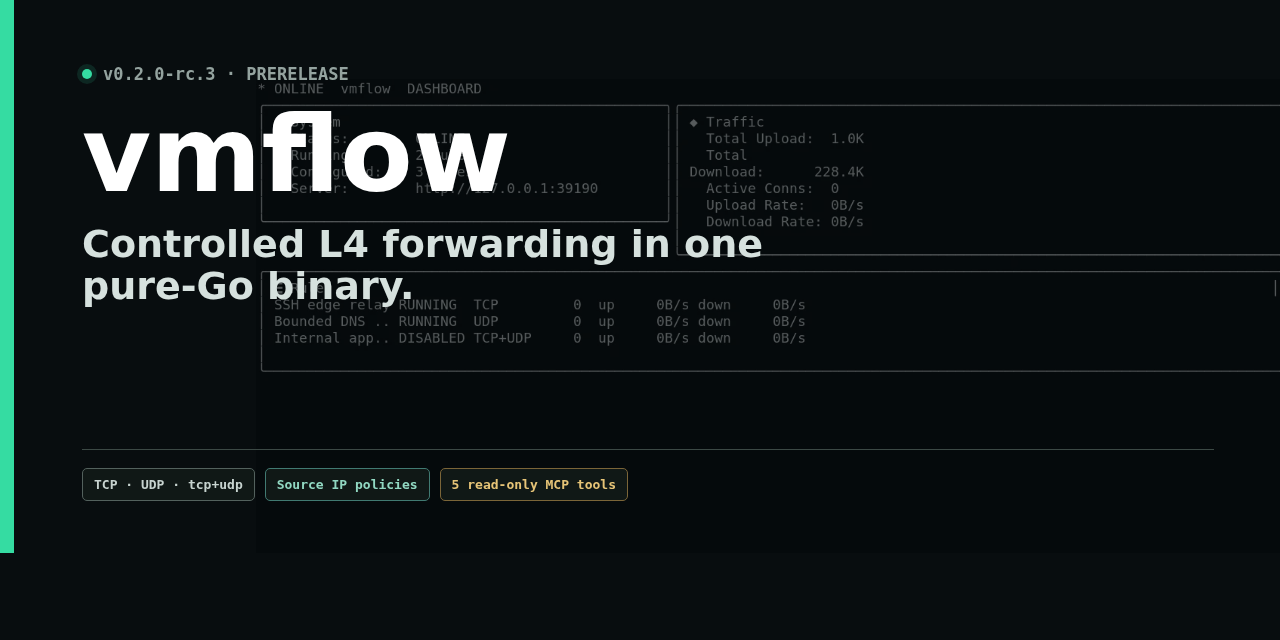
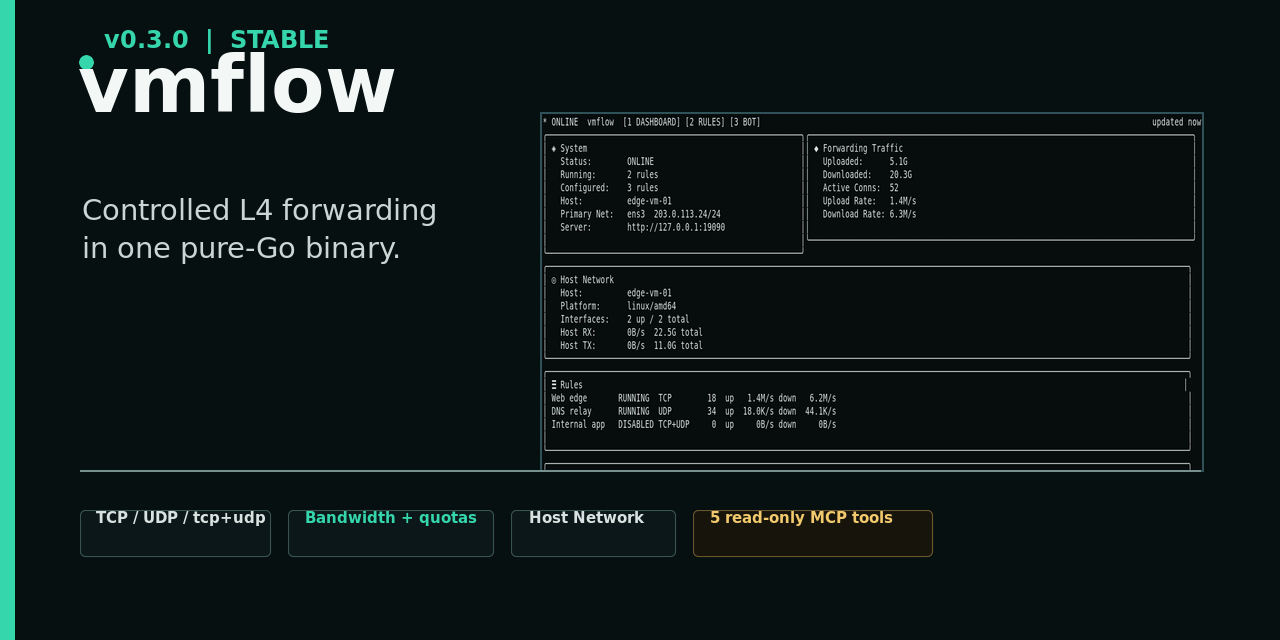
docs: refresh v0.3.0 guides and media

diff --git a/README.md b/README.md
@@ -7,20 +7,20 @@ pure Go. Run it as a single-binary network proxy or embed the forwarding runtime
 in your own Go control plane, with explicit resource limits, hot-reloadable
 rules, a terminal UI, and Prometheus metrics.
 
-[![Docs](https://img.shields.io/badge/docs-vmflow.bestcheapvps.org-14b8a6)](https://vmflow.bestcheapvps.org/)
+[![Docs source](https://img.shields.io/badge/docs-source-14b8a6)](https://github.com/cloudapp3/vmdocs/tree/main/sites/vmflow/docs)
 [![CI](https://github.com/cloudapp3/vmflow/actions/workflows/go.yml/badge.svg)](https://github.com/cloudapp3/vmflow/actions/workflows/go.yml)
 [![Go Reference](https://pkg.go.dev/badge/github.com/cloudapp3/vmflow.svg)](https://pkg.go.dev/github.com/cloudapp3/vmflow)
 [![License: MIT](https://img.shields.io/badge/license-MIT-blue.svg)](LICENSE)
 
-Documentation: [Website](https://vmflow.bestcheapvps.org/) · [中文](https://vmflow.bestcheapvps.org/zh/) · [Docs source](https://github.com/cloudapp3/vmdocs/tree/main/sites/vmflow/docs)
+Documentation: [English quick start](https://github.com/cloudapp3/vmdocs/blob/main/sites/vmflow/docs/guide/quick-start.md) · [中文快速开始](https://github.com/cloudapp3/vmdocs/blob/main/sites/vmflow/docs/zh/quick-start.md) · [All docs source](https://github.com/cloudapp3/vmdocs/tree/main/sites/vmflow/docs)
 
 > **完整使用指南:** [中文文档源码](https://github.com/cloudapp3/vmdocs/tree/main/sites/vmflow/docs/zh) —— 覆盖安装、配置、运维、安全加固与排错。English quick reference is below; the deep guide is in the [public docs source](https://github.com/cloudapp3/vmdocs/tree/main/sites/vmflow/docs).
 
 <p align="center">
-  <img src="assets/vmflow-demo.gif" width="960" alt="vmflow TUI dashboard, rules, and precheck views">
+  <img src="assets/vmflow-demo.gif" width="960" alt="vmflow v0.3.0 TUI showing the Host Network dashboard, running TCP and UDP rules, bandwidth and traffic quotas, successful precheck, and language selection">
 </p>
 
-<p align="center"><sub>Real TUI output from the current vmflow build.</sub></p>
+<p align="center"><sub>Real v0.3.0 TUI output: Host Network, TCP/UDP/tcp+udp rules, bandwidth and daily/monthly quotas, precheck, and language views.</sub></p>
 
 ## TCP/UDP port forwarding features
 
@@ -111,13 +111,20 @@ to `en` or `zh-CN`. For a one-off override, use
 `vmflow --lang zh-CN <command>` or set `VMFLOW_LANG`. Resolution order is
 `--lang`, `VMFLOW_LANG`, `config.yaml`, then English.
 
-Start vmflow in one terminal after setup:
+What happens after setup depends on the run mode selected in `vmflow init`:
+
+- **Native system service:** vmflow is already installed, enabled, and running
+  in the background. Do not start a second foreground process.
+- **Foreground:** vmflow is already running and remains attached to the current
+  terminal until interrupted.
+- **Configure only:** no daemon is started. Start the saved user configuration
+  later with:
 
 ```bash
 vmflow run
 ```
 
-Query it from another terminal:
+Once a daemon is running, query it from another terminal:
 
 ```bash
 vmflow ctl rules
@@ -126,10 +133,24 @@ vmflow ctl metrics
 vmflow ctl precheck
 ```
 
-Open the terminal UI or show build metadata:
+The default local `vmflow tui` path manages the native service and first checks
+that it is installed and running. Use it for system-service mode:
 
 ```bash
 vmflow tui
+```
+
+For a daemon started manually in foreground mode, provide the loopback address
+explicitly so the TUI connects to that process instead of requiring a native
+service:
+
+```bash
+vmflow tui -addr http://127.0.0.1:19090
+```
+
+Show runtime status or build metadata with:
+
+```bash
 vmflow status
 vmflow version -json
 ```
